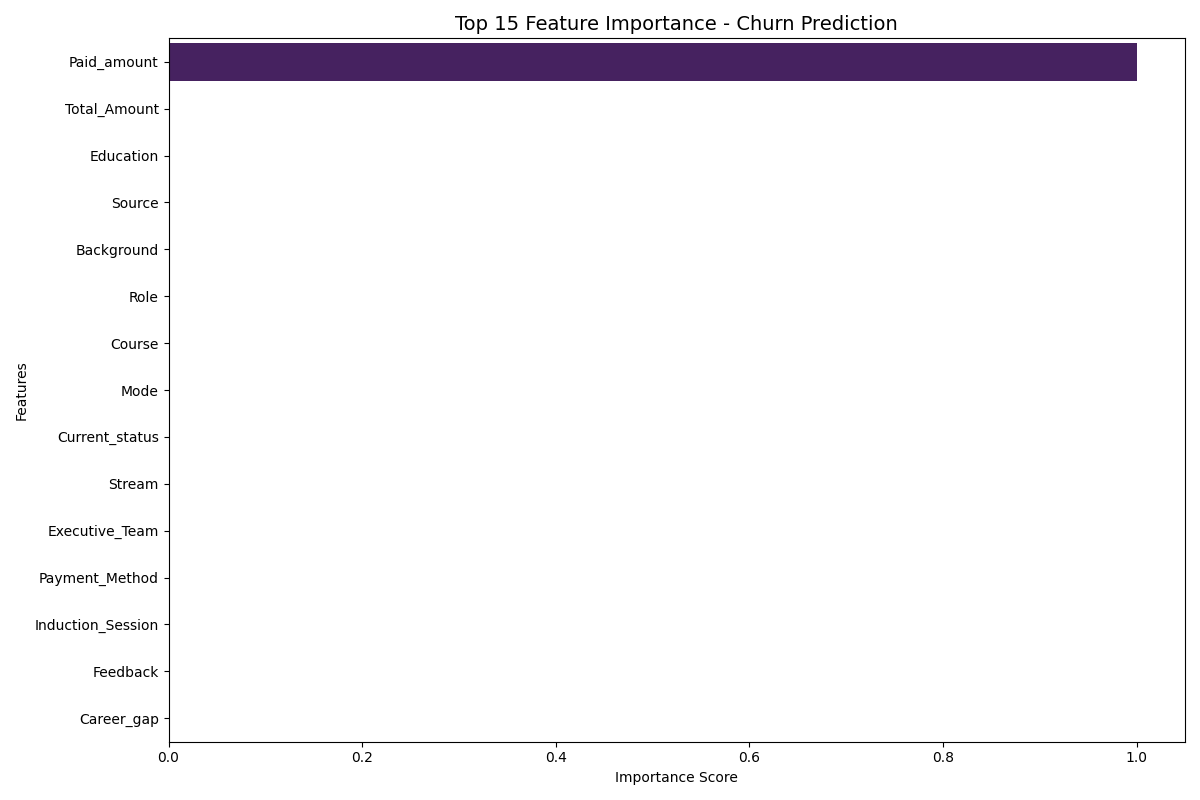
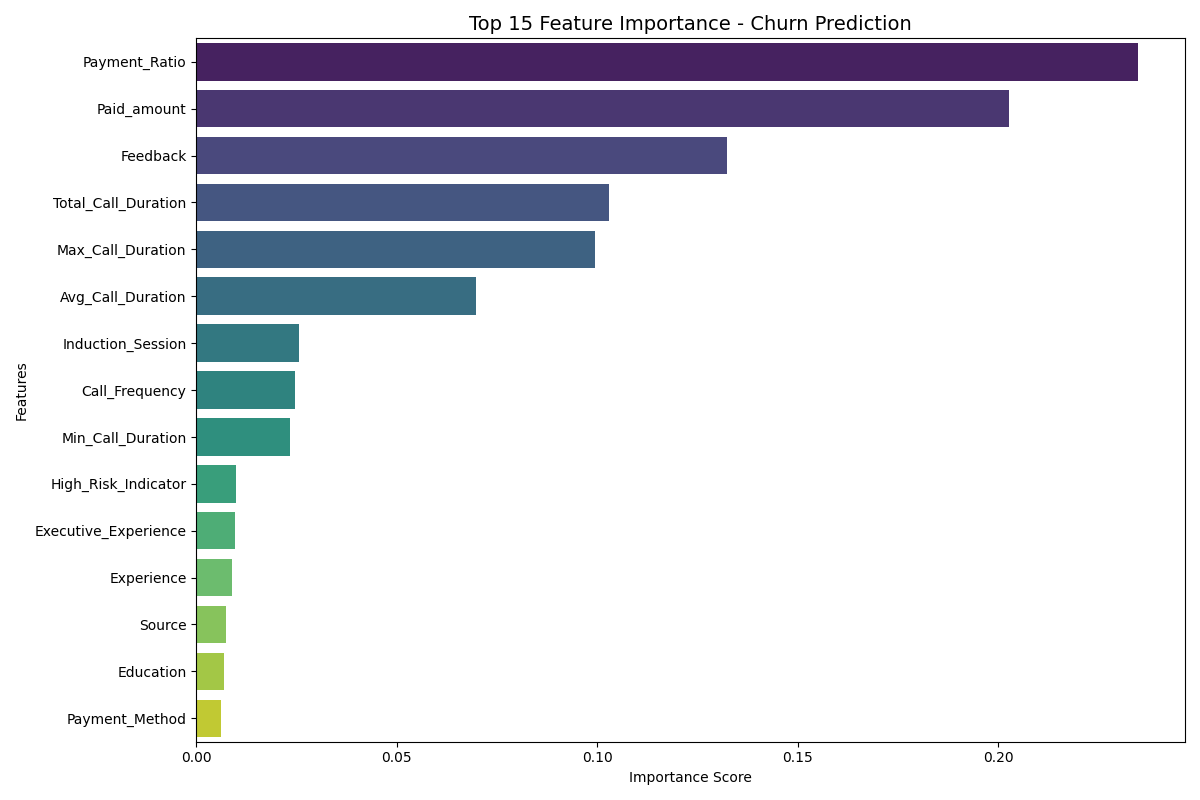
Updated candidate explorer

diff --git a/app.py b/app.py
@@ -1289,18 +1289,31 @@ def page_candidate_explorer(df, call_log_proc, executive_profile, churn_full=Non
 
     with pc3:
         st.markdown(f"""
-        <div class="candidate-card">
-            <div style="font-size:13px; font-weight:700; color:#94a3b8; margin-bottom:12px; text-transform:uppercase; letter-spacing:1px;">Call History ({len(calls)} calls)</div>
-        """, unsafe_allow_html=True)
+    <div class="candidate-card">
+        <div style="font-size:13px; font-weight:700; color:#94a3b8; margin-bottom:12px; text-transform:uppercase; letter-spacing:1px;">Call History</div>
+    """, unsafe_allow_html=True)
+    
         if not calls.empty:
-            calls_disp = calls[['Call_Date','Call_Duration','Call_Remarks']].copy()
-            calls_disp.columns = ['Date', 'Duration (min)', 'Remarks']
-            calls_disp['Date'] = calls_disp['Date'].dt.strftime('%d %b %Y')
-            st.dataframe(calls_disp.reset_index(drop=True), use_container_width=True, height=220)
+            total_calls = len(calls)
+            avg_duration = calls['Call_Duration'].mean() if 'Call_Duration' in calls.columns else 0
+        
+            col1, col2 = st.columns(2)
+            with col1:
+                st.markdown(f"""
+                    <div style="background:#f8fafc; border:1px solid #e2e8f0; border-radius:10px; padding:15px; text-align:center;">
+                    <div style="font-size:28px; font-weight:800; color:#3b82f6;">{total_calls}</div>
+                    <div style="font-size:13px; color:#64748b; margin-top:5px;">Total Calls</div>
+                    </div>""", unsafe_allow_html=True)
+            with col2:
+                st.markdown(f"""
+                    <div style="background:#f8fafc; border:1px solid #e2e8f0; border-radius:10px; padding:15px; text-align:center;">
+                    <div style="font-size:28px; font-weight:800; color:#10b981;">{avg_duration:.1f}</div>
+                    <div style="font-size:13px; color:#64748b; margin-top:5px;">Avg Duration (min)</div>
+                    </div>""", unsafe_allow_html=True)
         else:
             st.markdown("<p style='color:#475569;'>No call records found.</p>", unsafe_allow_html=True)
         st.markdown("</div>", unsafe_allow_html=True)
-
+        
         # Show suggested churn reason for this candidate if available
         if 'Suggested_Churn_Reason' in row.index and pd.notna(row['Suggested_Churn_Reason']) and row['Suggested_Churn_Reason'] != '':
             st.markdown(f"<div style='margin-top:12px; padding:12px; border-radius:8px; background:rgba(248,113,113,0.06);'>"
@@ -1616,7 +1629,7 @@ def page_live_predictor(df, model_data, churn_full=None):
         experience     = st.number_input("Experience (years)", 0, 30, 3, key="p_exp")
         career_gap     = st.number_input("Career Gap (years)", 0, 10, 0, key="p_gap")
         total_amount   = st.number_input("Total Course Fee (₹)", 10000, 200000, 60000, step=5000, key="p_ta")
-        paid_amount    = st.number_input("Amount Paid (₹)", 0, 200000, 0, step=5000, key="p_pa")
+        paid_amount    = st.number_input("Amount Paid (₹)", 2000, 200000, 2000, step=10000, key="p_pa")
 
     st.markdown('<div class="section-header"><h2>Call History Inputs</h2></div>', unsafe_allow_html=True)
 
@@ -1721,7 +1734,7 @@ def page_live_predictor(df, model_data, churn_full=None):
             'Total_Amount':        total_amount,
             'Paid_amount':         paid_amount,
             'Payment_Ratio':       payment_ratio,
-            'Zero_Payment':        int(paid_amount == 0),
+            'Booking_fee':        int(paid_amount == 2000),
             'Negative_Feedback':   int(str(feedback).strip().lower() == 'negative'),
             'High_Risk_Indicator': int((paid_amount == 0) and (str(feedback).strip().lower() == 'negative')),
             'Days_Since_Induction': 30,